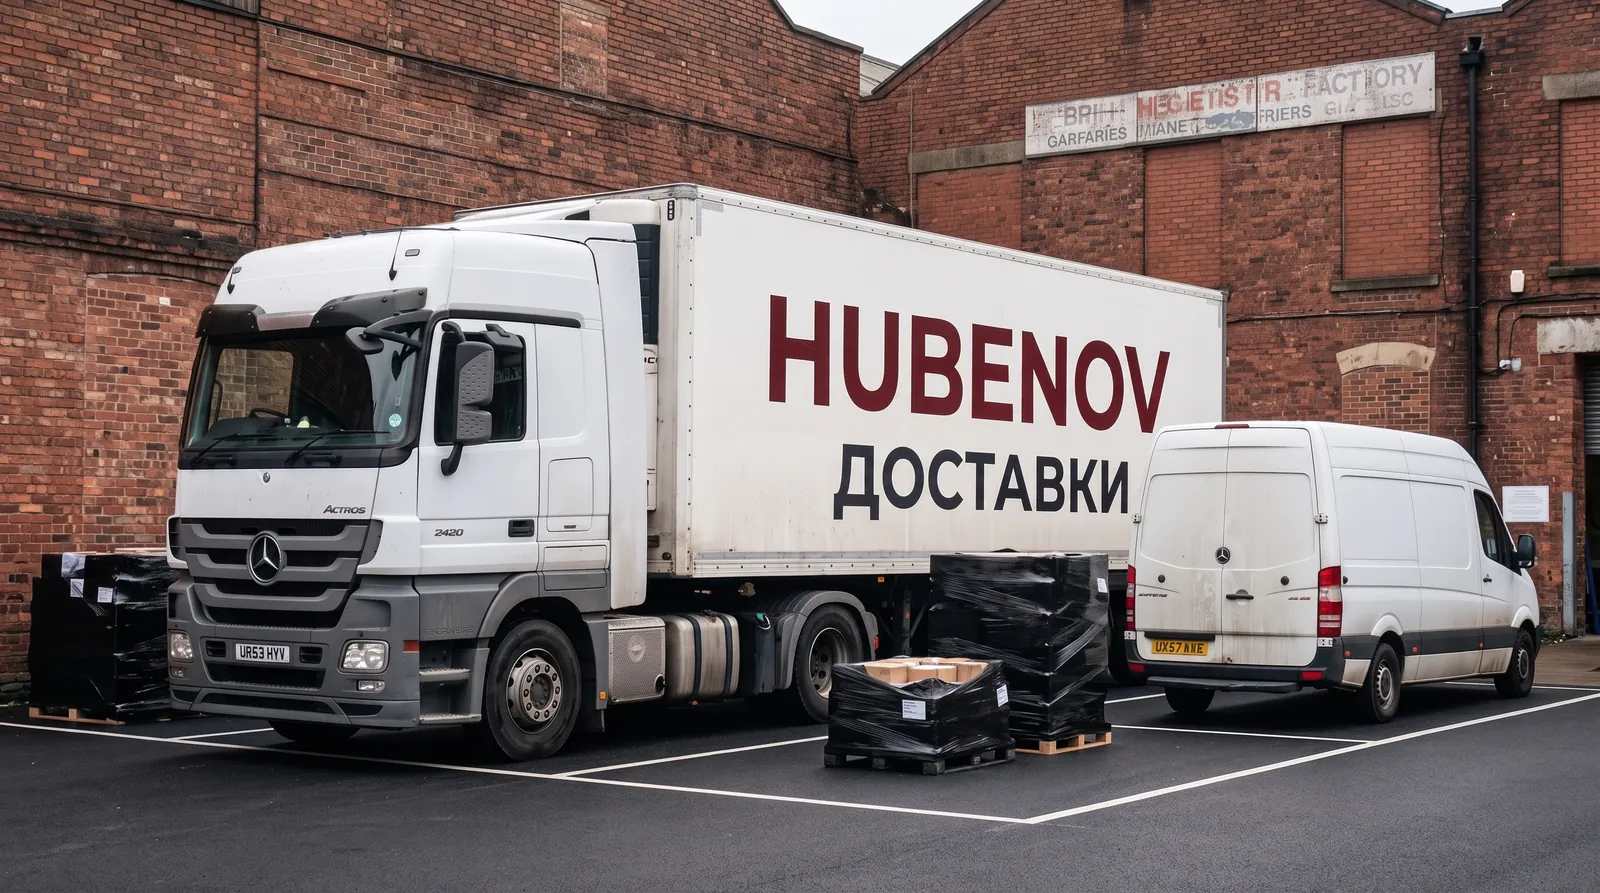
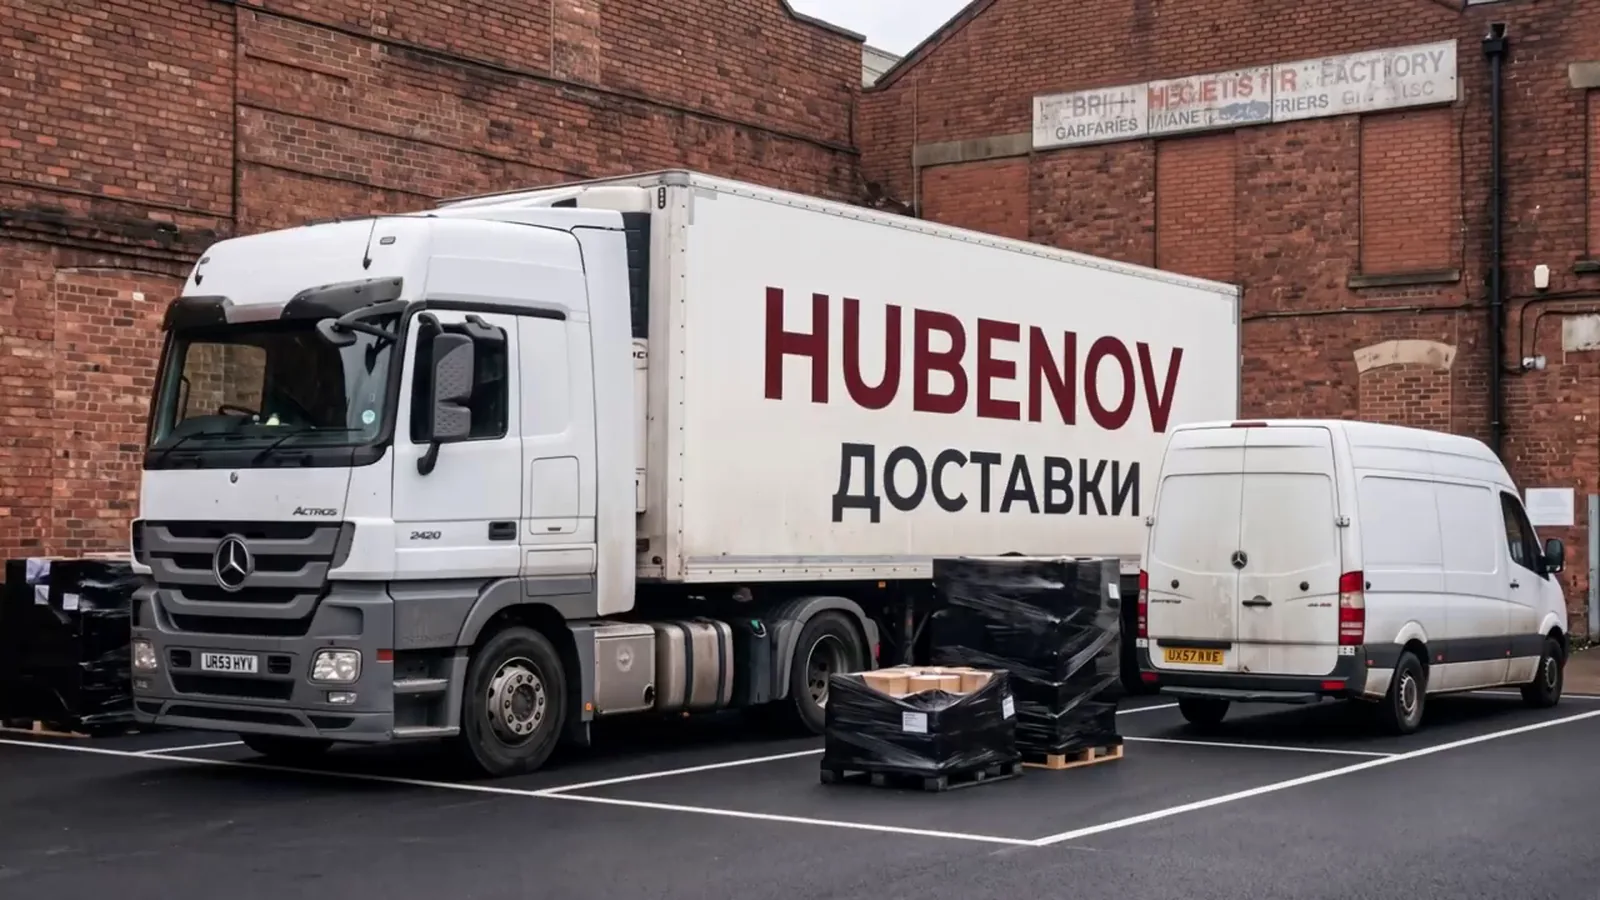
Hero: still is frame 0 of the loop (no cut when the film attaches); ribbon spring-smooths clock→film hand-over
Claude-Session: https://claude.ai/code/session_01NUz5qZ7ZNoJWJRxPFZMRHB

diff --git a/src/features/public/HomePage.tsx b/src/features/public/HomePage.tsx
@@ -1,7 +1,7 @@
 import { Link } from 'react-router-dom';
 import { useEffect, useRef, useState, type RefObject } from 'react';
 import { useTranslation } from 'react-i18next';
-import { m as motion, useMotionTemplate, useMotionValue, useReducedMotion } from 'framer-motion';
+import { m as motion, useMotionTemplate, useMotionValue, useReducedMotion, useSpring } from 'framer-motion';
 import {
   Truck,
   ShieldCheck,
@@ -102,7 +102,8 @@ export function HomePage() {
           ДОСТАВКИ livery from the owner's shop-window poster, so the site and
           the shop front show the same truck. The still is the first frame of
           the loop (yard, van, pallets) so the film attaches without a jump;
-          hero-fleet-alt-road is the poster/OG shot. Rendered photoreal
+          (it is literally frame 0 of hero-loop.mp4, so the film attaches with
+          no visible cut); hero-fleet-alt-road is the poster/OG shot. Rendered photoreal
           (overcast Manchester, UK plates, grime) so it does not read as stock
           art. Full-width, nothing over it; content sits below. */}
       <section className="relative isolate overflow-hidden">
@@ -483,7 +484,11 @@ const LOOP_SECONDS = 14.75; // must match public/video/hero-loop.* duration
 function TransitRibbon({ lang, videoRef }: { lang: 'bg' | 'en'; videoRef: RefObject<HTMLVideoElement | null> }) {
   const reduced = useReducedMotion();
   const progress = useMotionValue(0);
-  const width = useMotionTemplate`${progress}%`;
+  // Spring smooths the hand-over from the pre-film clock to the film's own
+  // clock (no visible hop when the video attaches); the wrap at 100 → 0 is a
+  // hard jump so the truck never runs backwards.
+  const smooth = useSpring(progress, { stiffness: 60, damping: 20, mass: 0.6 });
+  const width = useMotionTemplate`${smooth}%`;
 
   useEffect(() => {
     if (reduced) return;
@@ -495,12 +500,14 @@ function TransitRibbon({ lang, videoRef }: { lang: 'bg' | 'en'; videoRef: RefObj
         v && v.duration > 0 && !v.paused && !v.ended
           ? v.currentTime / v.duration
           : ((now - t0) / 1000 % LOOP_SECONDS) / LOOP_SECONDS;
-      progress.set(Math.min(100, Math.max(0, p * 100)));
+      const next = Math.min(100, Math.max(0, p * 100));
+      if (next < progress.get() - 50) smooth.jump(next);
+      progress.set(next);
       raf = requestAnimationFrame(tick);
     };
     raf = requestAnimationFrame(tick);
     return () => cancelAnimationFrame(raf);
-  }, [reduced, progress, videoRef]);
+  }, [reduced, progress, smooth, videoRef]);
 
   return (
     <div className="relative z-10 bg-gradient-to-r from-brand-700 via-brand-600 to-emerald-700 text-white">
